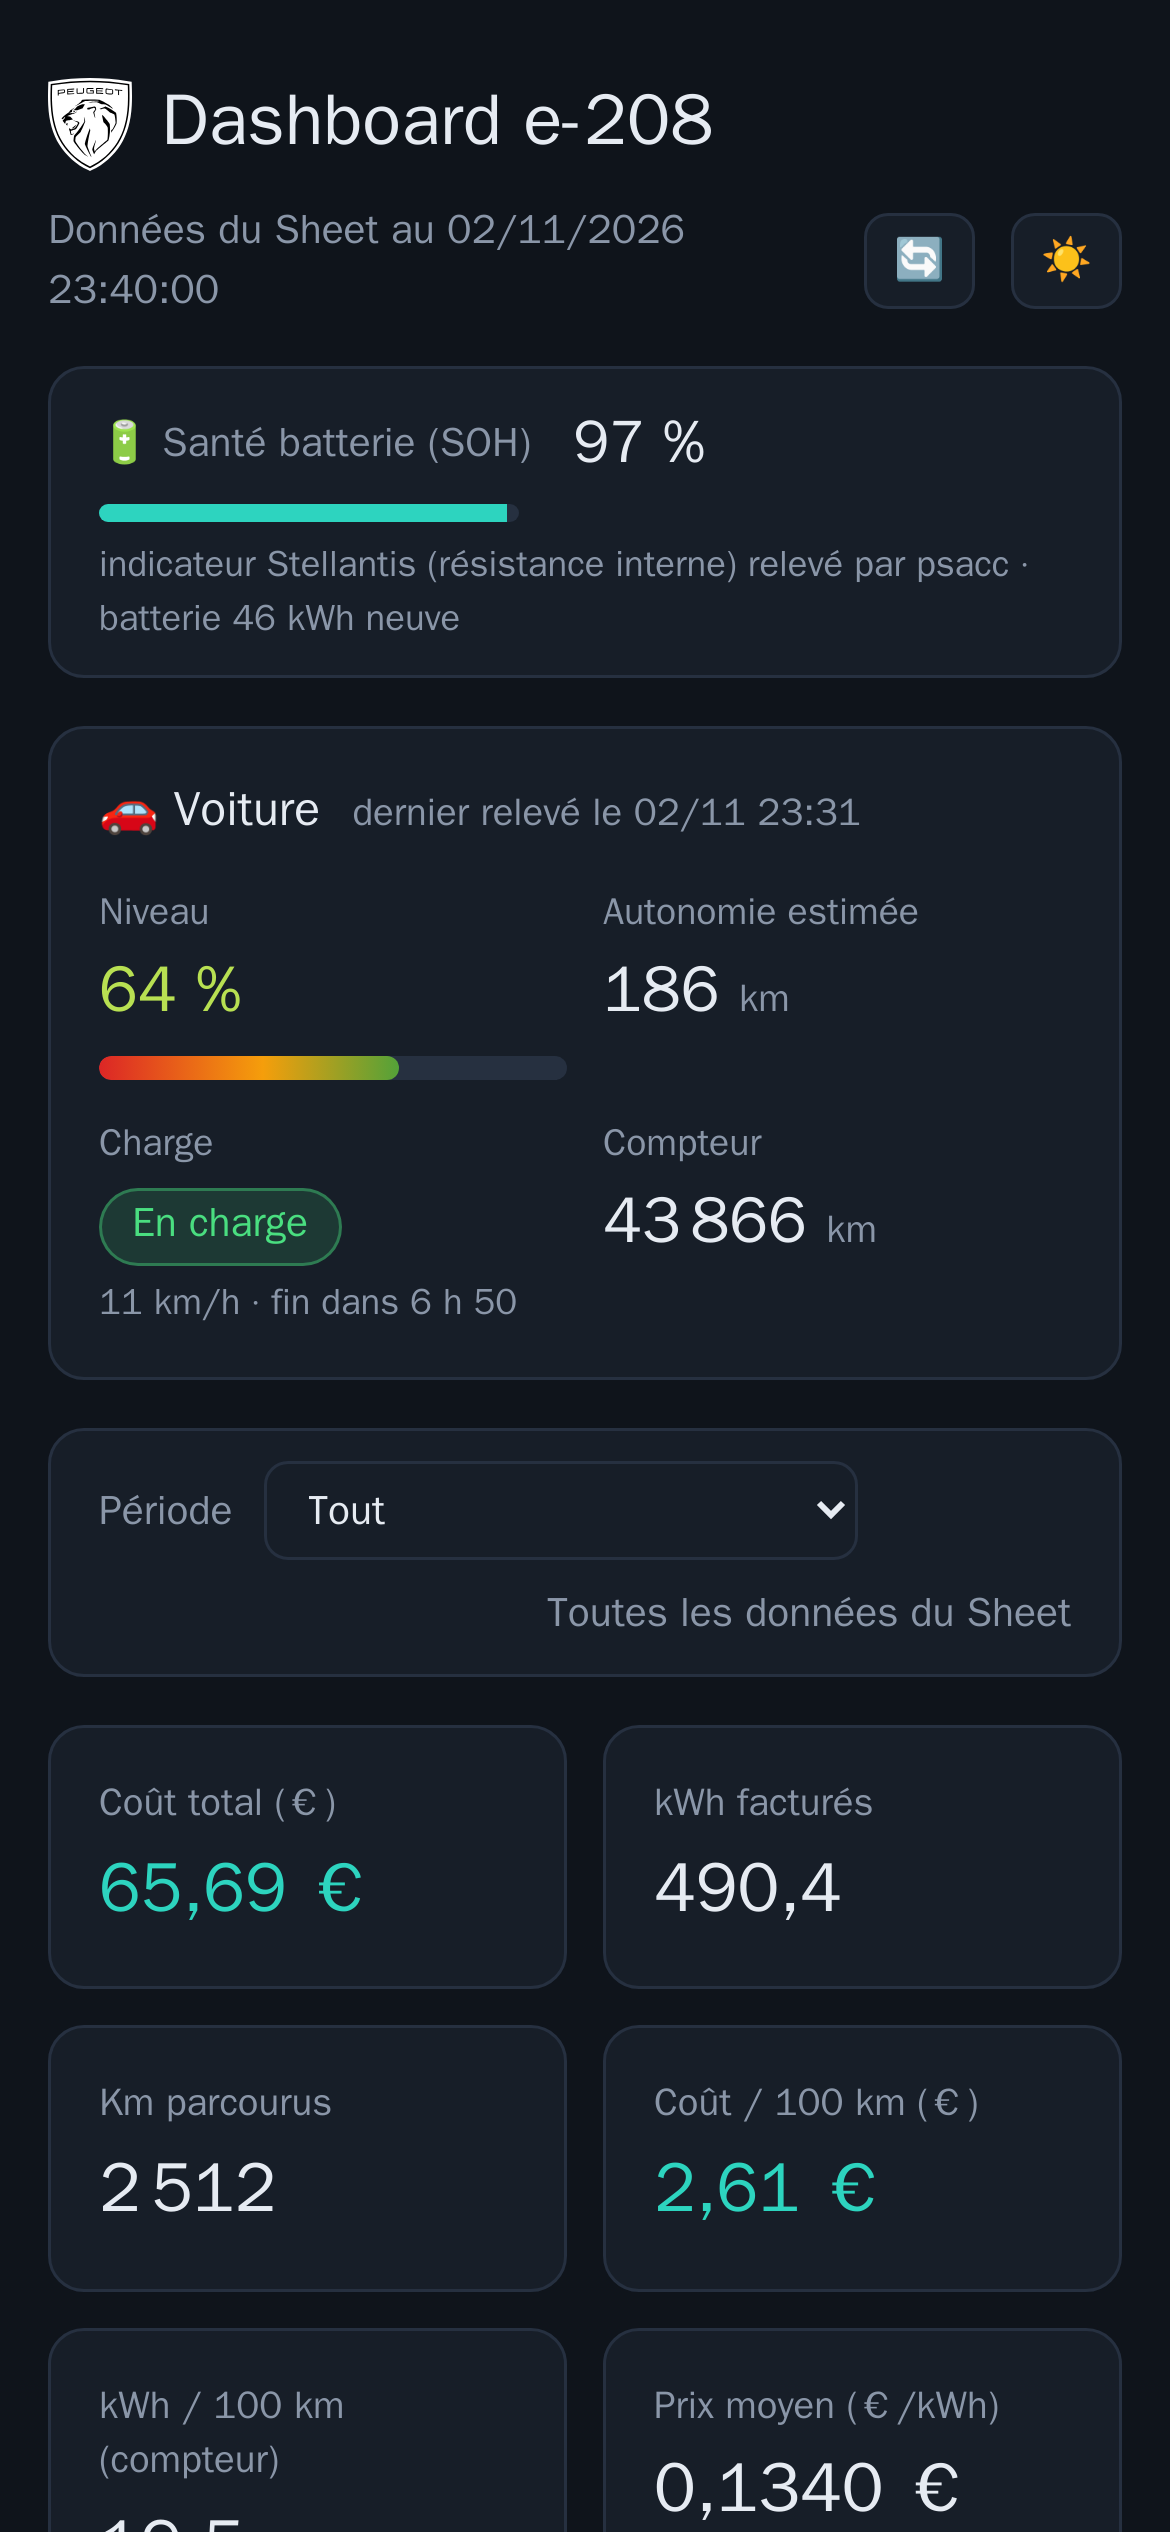
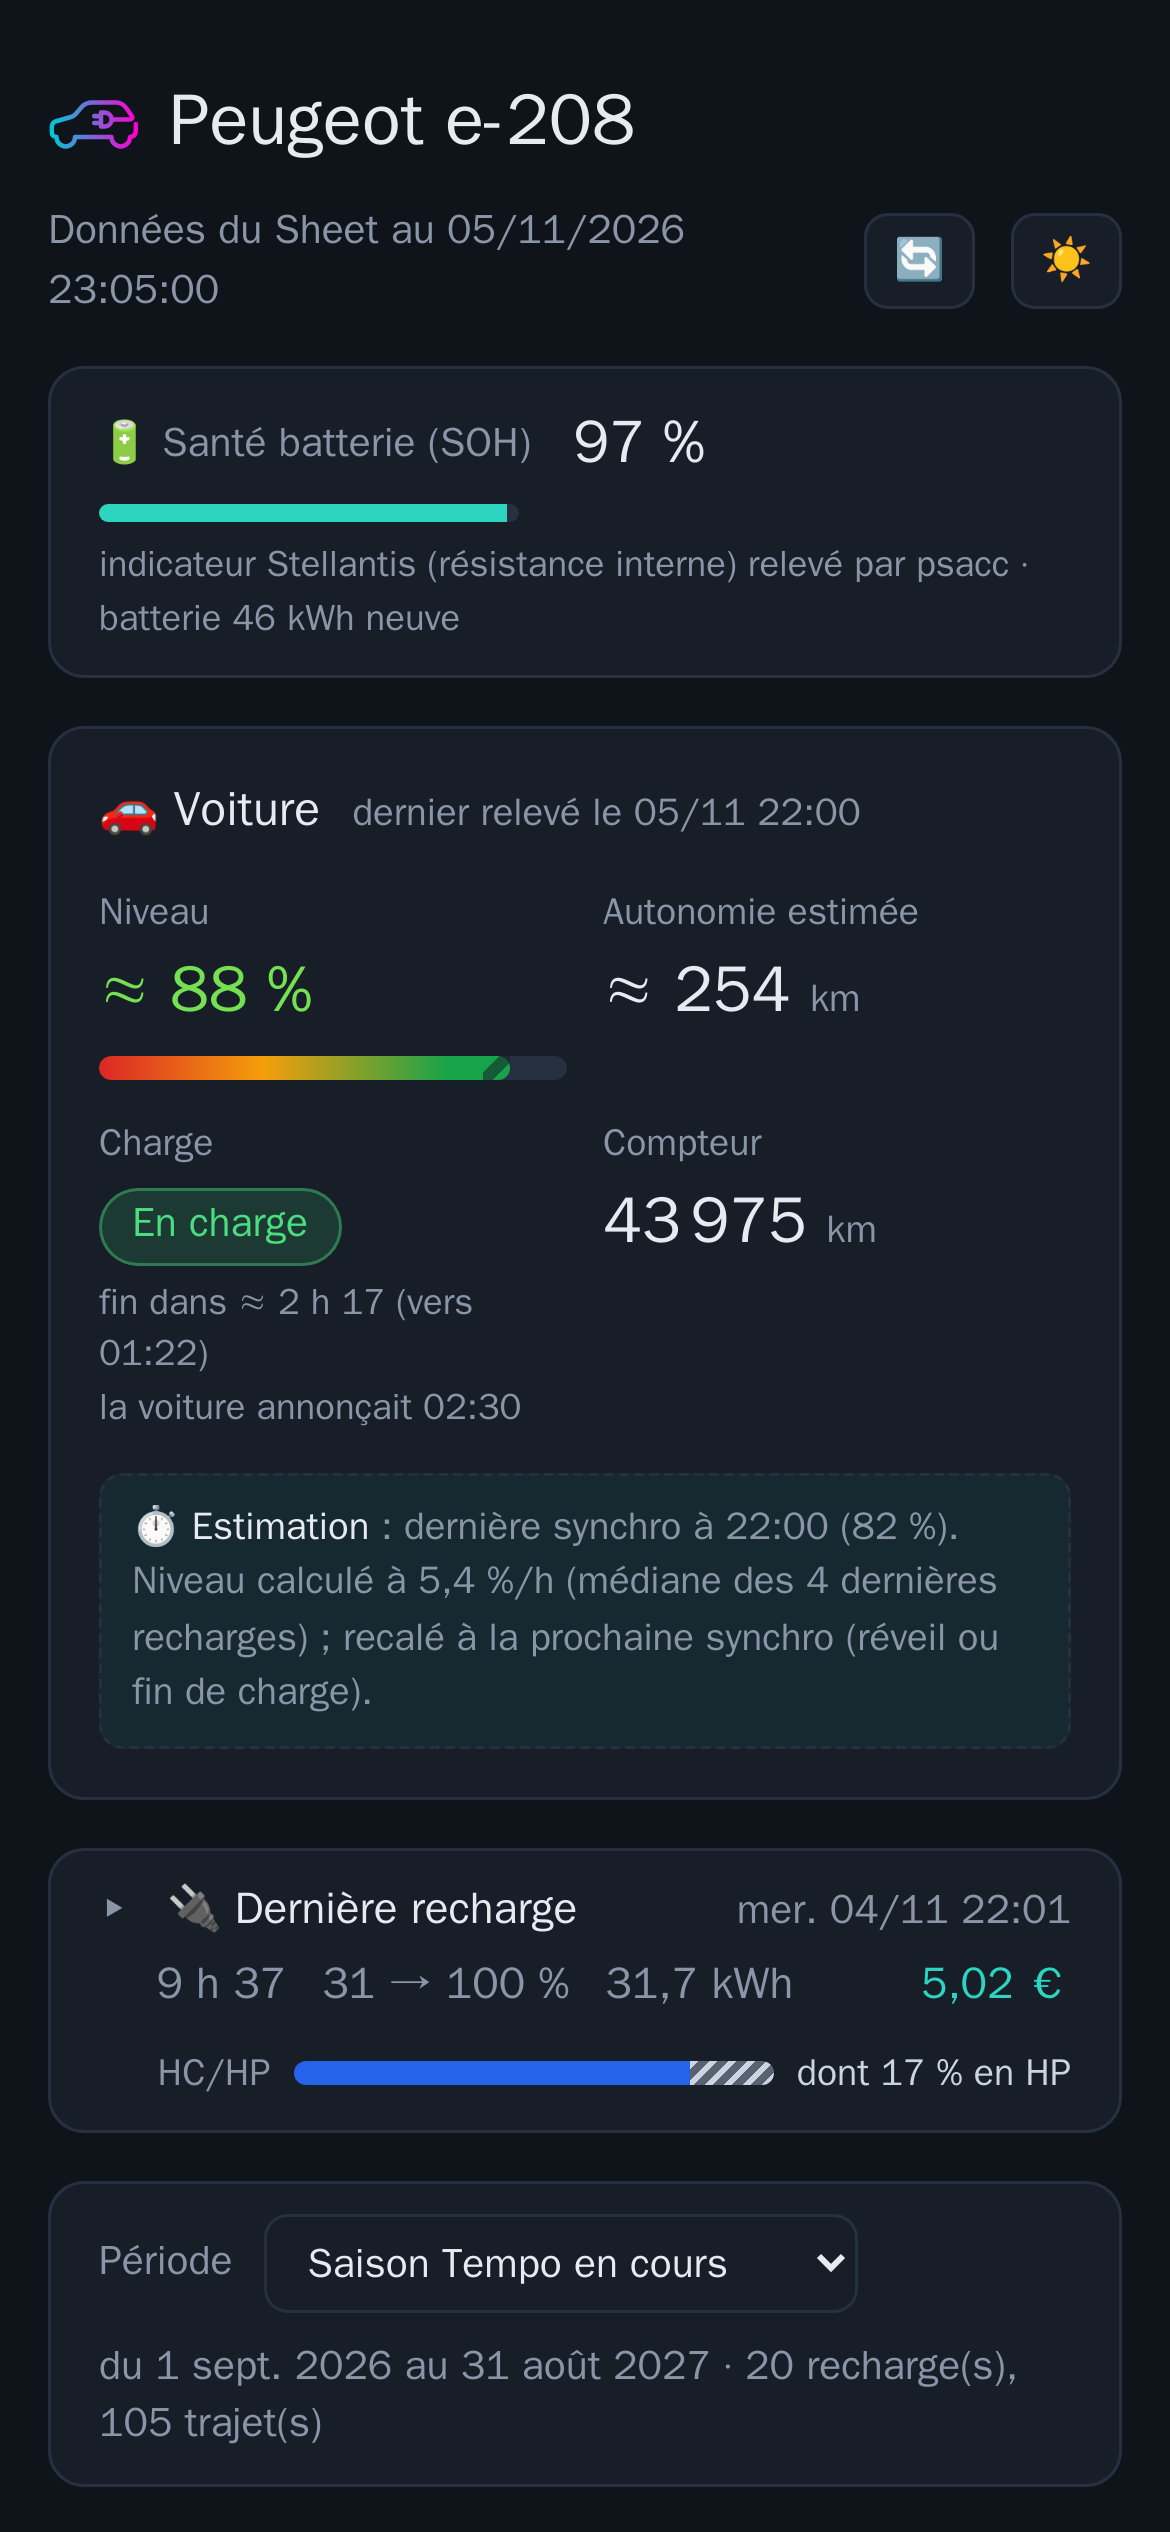
docs: captures du README à jour et outil de capture versionné
Les quatre captures (PC et mobile, thèmes clair et sombre) montrent le
dashboard actuel, toujours avec des données fictives. Le générateur du
jeu fictif et le script Playwright sont versionnés dans
tools/screenshots/ avec un lanceur run.sh (URL passée en argument, logo
personnel remplacé par l'icône neutre, Docker seulement).

diff --git a/tools/screenshots/shots.js b/tools/screenshots/shots.js
@@ -1,0 +1,40 @@
+// Captures du README (PC et mobile, thèmes clair et sombre) avec le jeu de données fictif de gen_demo.py.
+// Lancé par run.sh dans l'image Docker de Playwright : BASE_URL = dashboard, DATA = jeu fictif, OUT = dossier de sortie.
+const { chromium } = require("playwright");
+const fs = require("fs");
+const BASE = process.env.BASE_URL.replace(/\/?$/, "/");
+const data = fs.readFileSync(process.env.DATA, "utf8");
+const OUT = process.env.OUT;
+(async () => {
+  const b = await chromium.launch();
+  let failed = false;
+  for (const [dev, w, scale] of [["pc", 1280, 1], ["mobile", 390, 3]]) for (const scheme of ["light", "dark"]) {
+    const p = await b.newPage({ viewport: { width: w, height: dev === "pc" ? 900 : 844 }, deviceScaleFactor: scale, colorScheme: scheme,
+                                timezoneId: "Europe/Paris", locale: "fr-FR" });
+    const errs = []; p.on("pageerror", e => errs.push(e.message)); p.on("console", m => m.type() === "error" && errs.push(m.text()));
+    // heure du jeu fictif (5 nov. 2026, 23:05) ; l'horloge continue d'avancer pour les animations des graphiques
+    await p.clock.setSystemTime(new Date("2026-11-05T22:05:00Z"));
+    await p.route("**/api/data*", r => r.fulfill({ contentType: "application/json", body: data }));
+    // logo personnel éventuel de l'instance (DASHBOARD_LOGO) remplacé par l'icône neutre du projet
+    await p.route(u => u.href === BASE, async r => {
+      const resp = await r.fetch(); const html = (await resp.text())
+        .replace(/<img class="logo[^"]*" src="local\/logo" alt="">/, '<img class="logo" src="static/favicon.svg" alt="">');
+      r.fulfill({ response: resp, body: html });
+    });
+    await p.goto(BASE); await p.waitForSelector("tr.month-row");
+    await p.selectOption("#preset", "season"); await p.waitForTimeout(500);
+    if (dev === "pc") {  // mois le plus récent des recharges déplié, et la courbe de sa première recharge
+      await p.evaluate(() => { const r = document.querySelector("tr[data-id]");
+        r.closest("table").querySelector(`tr.month-row[data-month="${r.dataset.in}"]`).click(); });
+      await p.click("tr[data-id] >> nth=0");
+      // page entière sans fullPage (qui redimensionne et relance l'animation des graphiques)
+      await p.setViewportSize({ width: w, height: await p.evaluate(() => document.documentElement.scrollHeight) });
+    }
+    await p.waitForTimeout(2000);
+    await p.screenshot({ path: `${OUT}/${dev}-${scheme}.png` });
+    console.log(`${dev}-${scheme}.png`, errs.length ? errs : "ok");
+    failed ||= errs.length > 0;
+  }
+  await b.close();
+  process.exit(failed ? 1 : 0);
+})();

diff --git a/tools/screenshots/gen_demo.py b/tools/screenshots/gen_demo.py
@@ -1,0 +1,148 @@
+"""Jeu de données fictif pour les captures du README, au format de /api/data.
+
+Usage : python3 gen_demo.py <sortie.json>   (lancé par run.sh)
+Dates figées autour du 5 novembre 2026 : shots.js règle l'horloge du navigateur sur cette date.
+"""
+import json, os, random, sys
+from datetime import datetime, timedelta, date
+
+random.seed(208)
+BAT, LOSS = 46.0, 1.15
+PRICE = {("BLEU", "HC"): 0.1288, ("BLEU", "HP"): 0.1552, ("BLANC", "HC"): 0.1447,
+         ("BLANC", "HP"): 0.1792, ("ROUGE", "HC"): 0.1518, ("ROUGE", "HP"): 0.6586}
+SLOTS = [("BLEU", "HC"), ("BLEU", "HP"), ("BLANC", "HC"), ("BLANC", "HP"), ("ROUGE", "HC"), ("ROUGE", "HP")]
+start_day, end_day = date(2026, 9, 1), date(2026, 11, 4)
+
+colors = {}
+d = start_day
+while d <= date(2026, 11, 6):
+    colors[d] = "BLANC" if d.weekday() < 5 and random.random() < 0.15 and d.month >= 10 else "BLEU"
+    d += timedelta(days=1)
+colors[date(2026, 11, 3)] = "ROUGE"
+colors[date(2026, 11, 5)] = "BLANC"
+
+iso = lambda t: t.strftime("%Y-%m-%dT%H:%M:%S")
+utc = lambda t: (t - timedelta(hours=1 if t >= datetime(2026, 10, 25, 3) else 2)).strftime("%Y-%m-%dT%H:%M:%S+00:00")
+trips, charges, curves, rates = [], [], {}, []
+odo, level, last_charge_odo = 41250.0, 88.0, 41250.0
+
+def add_trips(d, n, t):
+    global odo, level
+    for _ in range(n):
+        km = round(random.choice([random.uniform(2, 9), random.uniform(10, 32), random.uniform(35, 70)]), 1)
+        mins = int(km * random.uniform(1.2, 2.0)) + 3
+        kwh100 = round(random.uniform(13.5, 19.5), 1)
+        kwh = round(km * kwh100 / 100, 2)
+        odo += km; level -= 100 * kwh / BAT
+        end = t + timedelta(minutes=mins)
+        trips.append(["T-" + utc(t)[:19].replace("-", "").replace(":", "") + "Z", iso(t), iso(end), km, kwh, kwh100, round(odo, 1), iso(t)[:7]])
+        t = end + timedelta(hours=random.uniform(1, 4))
+
+d = start_day
+while d <= end_day:
+    n = random.choice([0, 1, 2, 2, 3, 4]) if d.weekday() < 5 else random.choice([0, 0, 1, 2])
+    if d == end_day: n = 2
+    add_trips(d, n, datetime.combine(d, datetime.min.time()) + timedelta(hours=random.choice([7, 8, 9]), minutes=random.randint(0, 59)))
+    last = d == end_day
+    if (level < random.uniform(60, 75) and d < end_day - timedelta(days=2)) or last:
+        s = datetime.combine(d, datetime.min.time()) + timedelta(hours=22, seconds=random.randint(20, 90))
+        if last: level = 31.0
+        sl, el = round(level), 100
+        kwh = round(BAT * (el - sl) / 100, 2)
+        rate = 3.3 if last else random.uniform(2.2, 2.5)  # dernière : déborde en heures pleines
+        dur = kwh / rate
+        stop = s + timedelta(hours=dur)
+        hc_end = datetime.combine(d + timedelta(days=1), datetime.min.time()) + timedelta(hours=6)
+        hp_part = max(0, (stop - hc_end).total_seconds() / 3600) * rate
+        hc_part = kwh - hp_part
+        col_hc, col_hp = colors[d], colors[d + timedelta(days=1)]
+        slots = [0.0] * 6
+        slots[SLOTS.index((col_hc, "HC"))] += round(hc_part, 3)
+        if hp_part: slots[SLOTS.index((col_hp, "HP"))] += round(hp_part, 3)
+        billed = kwh * LOSS
+        cost = sum(slots[i] * LOSS * PRICE[SLOTS[i]] for i in range(6))
+        km = round(odo - last_charge_odo, 1)
+        cid = "C-" + utc(s)[:19].replace("-", "").replace(":", "") + "Z"
+        charges.append([cid, iso(s), iso(stop), sl, el, kwh, round(odo, 1), *slots, "psacc", "", round(dur, 2),
+                        col_hc, round(billed, 3), round(cost, 4), round(cost / billed, 4), km, round(100 * cost / km, 4) if km else "", iso(s)[:7]])
+        pts = []
+        for off in [0, 0.75, 5 if dur > 5.5 else None, 7.9 if dur > 8.2 else None]:
+            if off is None: continue
+            lv = min(100, sl + 100 * rate * off / BAT)
+            pts.append([utc(s + timedelta(hours=off)), round(lv), round(2.9 * lv)])
+        pts.append([utc(stop), 100, None])
+        curves[cid] = pts
+        rates.append(100 * rate / BAT)
+        level, last_charge_odo = 100.0, odo
+    d += timedelta(days=1)
+
+# trajets du 5 novembre, puis charge en cours le soir
+add_trips(date(2026, 11, 5), 3, datetime(2026, 11, 5, 8, 12))
+
+# une recharge saisie à la main, avec une note
+charges[-4][13], charges[-4][14] = "manuel (estimation)", "Borne du parking, ticket perdu"
+charges[-4][0] = "M" + charges[-4][0][1:]
+
+def agg(rows):
+    return sum(r[18] for r in rows), sum(r[17] for r in rows), sum(r[20] for r in rows)
+months = []
+for m in sorted({r[22] for r in charges}):
+    rows = [r for r in charges if r[22] == m]; c, k, km = agg(rows)
+    months.append({"month": m, "charges": len(rows), "kwh": k, "cost": c, "km": km, "eur_100km": 100 * c / km})
+c, k, km = agg(charges)
+tkm = sum(r[3] for r in trips); tkwh = sum(r[4] for r in trips)
+labels = ['Coût total (€)', 'kWh facturés', 'Km parcourus', 'Coût / 100 km (€)', 'kWh / 100 km (compteur)',
+          'Prix moyen (€/kWh)', 'Nb recharges', 'Km (trajets enregistrés)', 'kWh / 100 km (voiture)']
+vals = [c, k, km, 100 * c / km, 100 * k / km, c / k, len(charges), tkm, 100 * tkwh / tkm]
+tr_kwh = [sum(r[7 + i] for r in charges) * LOSS for i in range(6)]
+season_days = []
+d = date(2026, 9, 1)
+while d <= date(2026, 11, 7):
+    season_days.append({"day": d.isoformat(), "color": colors.get(d)}); d += timedelta(days=1)
+used = {c_: sum(1 for x in season_days if x["color"] == c_ and x["day"] <= "2026-11-05") for c_ in ("BLEU", "BLANC", "ROUGE")}
+now = "2026-11-05T23:05:00+01:00"
+fuel_hist = {"sp98": {}, "gazole": {}}
+d = start_day
+while d <= date(2026, 11, 5):
+    k_ = (d - start_day).days
+    fuel_hist["sp98"][d.isoformat()] = {"price": round(1.86 + 0.03 * random.random() + k_ * 0.0006, 4), "stations": random.randint(3000, 5000)}
+    fuel_hist["gazole"][d.isoformat()] = {"price": round(1.72 + 0.03 * random.random() + k_ * 0.0008, 4), "stations": random.randint(5000, 7500)}
+    d += timedelta(days=1)
+cur = lambda f, n: {"fuel": n, **fuel_hist[f]["2026-11-05"], "days": 3, "zone": "France", "fetched_at": now}
+start_now = "2026-11-05T21:00:40+00:00"
+med = sorted(rates[-4:])[1:3]; med = sum(med) / 2
+data = {
+    "kpi": [{"label": l, "value": v} for l, v in zip(labels, vals)],
+    "months": months,
+    "tranches": [{"tranche": f"{a.capitalize()} {b}", "kwh": v, "part": v / sum(tr_kwh)} for (a, b), v in zip(SLOTS, tr_kwh)],
+    "charges": {"headers": [], "rows": charges},
+    "trips": {"headers": [], "rows": trips},
+    "colors": [{"day": d.isoformat(), "color": c_} for d, c_ in colors.items()],
+    "hc_hours": [22, 6], "loss_coef": LOSS, "fetched_at": now,
+    "season": {"periode": "2026-2027", "stats": {"periode": "2026-2027", "bissextile": False, "dernierJourInclus": "2026-11-05",
+               "joursBleusConsommes": used["BLEU"], "joursBlancsConsommes": used["BLANC"], "joursRougesConsommes": used["ROUGE"],
+               "joursBleusRestants": 300 - used["BLEU"], "joursBlancsRestants": 43 - used["BLANC"],
+               "joursRougesRestants": 22 - used["ROUGE"]}, "fetched_at": now, "days": season_days},
+    "battery_kwh": BAT,
+    "vehicle": {"name": "Peugeot e-208"},
+    "health": {"soh": 97.0, "fetched_at": now, "note": "indicateur Stellantis (résistance interne) relevé par psacc"},
+    "car": {"level": round(level), "autonomy": round(2.9 * level), "updated_at": "2026-11-05 21:00:40+00:00", "status": "charging",
+            "plugged": True, "charging_rate": 11, "remaining_hours": 4.5, "mileage": round(odo, 1),
+            "mileage_at": "2026-11-05 20:41:12+00:00"},
+    "charge_curves": {"curves": curves, "ongoing": {"start_at": start_now, "points": [[start_now, round(level)]]},
+                      "median_rate": med, "median_count": 4},
+    "charge_estimate": {"from_at": start_now, "from_level": round(level), "from_autonomy": round(2.9 * level), "rate": round(med, 3),
+                        "source": "médiane des 4 dernières recharges", "target": 100, "car_end_at": "2026-11-06T01:30:40+00:00"},
+    "offers": {"base": 0.1985, "hchp": {"hc": 0.1589, "hp": 0.2142}, "zen": {"low": 0.1692, "high": 0.226},
+               "fuels": [{"key": "sp98", "name": "SP98", "l100": 7.0, "current": cur("sp98", "SP98")},
+                         {"key": "gazole", "name": "Gazole", "l100": 5.5, "current": cur("gazole", "GAZOLE")}]},
+    "fuel_history": fuel_hist,
+    "app": {"version": open(os.path.join(os.path.dirname(os.path.abspath(__file__)), "..", "..", "web", "VERSION")).read().strip(), "label": ""},
+    "credit": {"group": "Stellantis", "name": "psa_car_controller", "url": "https://github.com/flobz/psa_car_controller",
+               "provides": "état de la voiture, santé de la batterie (SOH), courbes de charge, recharges et trajets"},
+    "auth": False,
+}
+json.dump(data, open(sys.argv[1], "w"), ensure_ascii=False)
+lc = charges[-1]
+print(len(charges), "charges,", len(trips), "trajets, km", round(km), "coût", round(c, 2), "€ ; niveau", round(level),
+      "; dernière", lc[1], lc[3], "→", lc[2], [round(x, 2) for x in lc[7:13]])

diff --git a/CHANGELOG.md b/CHANGELOG.md
@@ -4,6 +4,9 @@ Résumé de chaque version, affiché dans le dashboard (clic sur le numéro de v
 
 Format : un titre `## <version> — <AAAA-MM-JJ>` par version, puis des puces `- ` d'une ligne (`**gras**` et `` `code` `` acceptés).
 
+## 0.14.1 — 2026-11-05
+- **Documentation** : captures d'écran du README à jour, et outil versionné pour les régénérer avec des données fictives.
+
 ## 0.14.0 — 2026-11-05
 - **Dernière recharge repliée** : « dont X % en HP » à droite de la barre quand la recharge a débordé en heures pleines, dans la couleur du jour ; détail des kWh en info-bulle.
 

diff --git a/README.md b/README.md
@@ -20,7 +20,7 @@ Testé avec une Peugeot e-208. **Ajouter une marque** : créer `brands/<marque>/
 
 ## 📸 Aperçu
 
-Captures du front web avec des **données fictives**.
+Captures du front web avec des **données fictives**. Pour les régénérer après une évolution du front : `tools/screenshots/run.sh http://<hôte>:8080/` (Docker et python3 requis).
 
 | | Clair | Sombre |
 | :--- | :---: | :---: |
